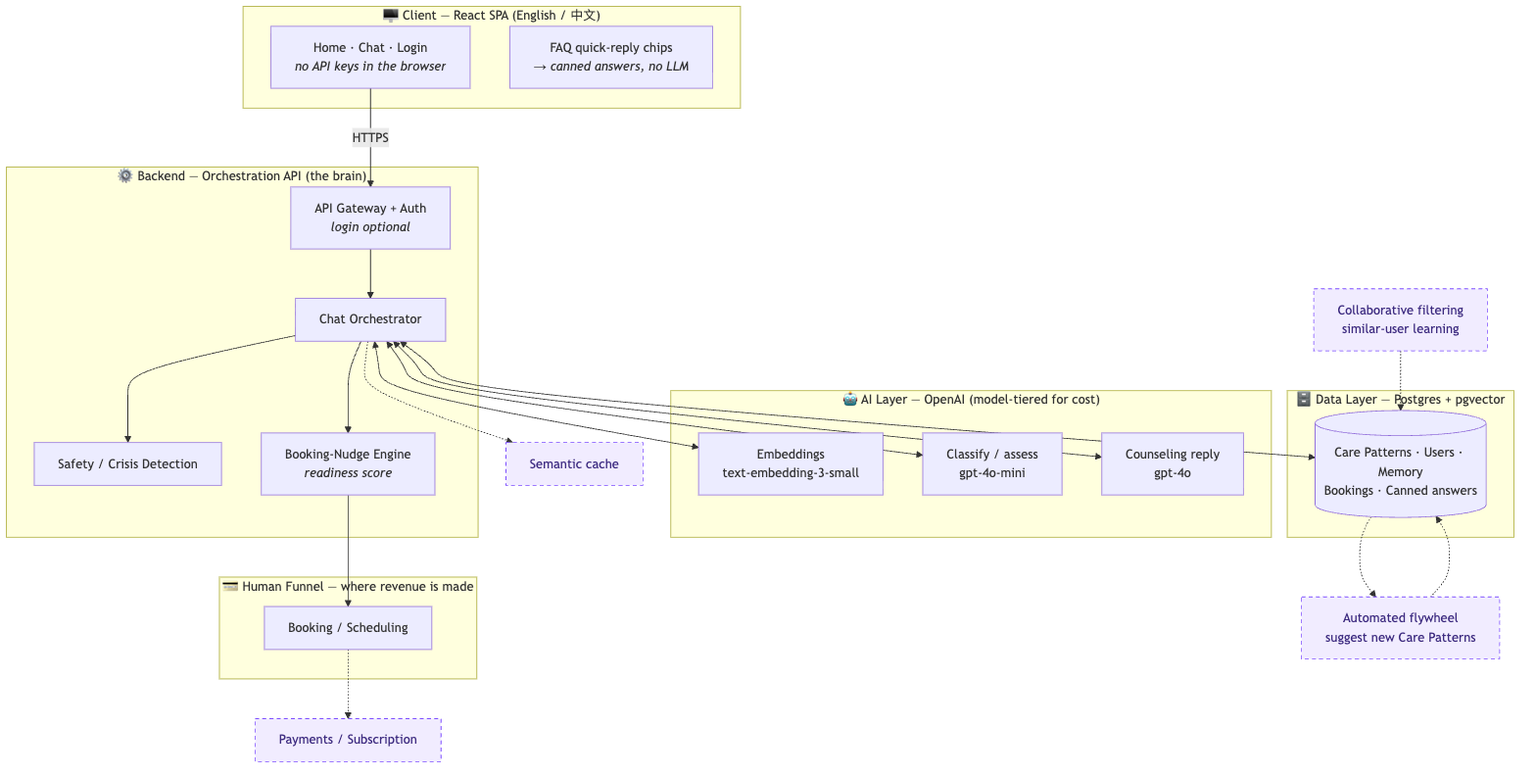
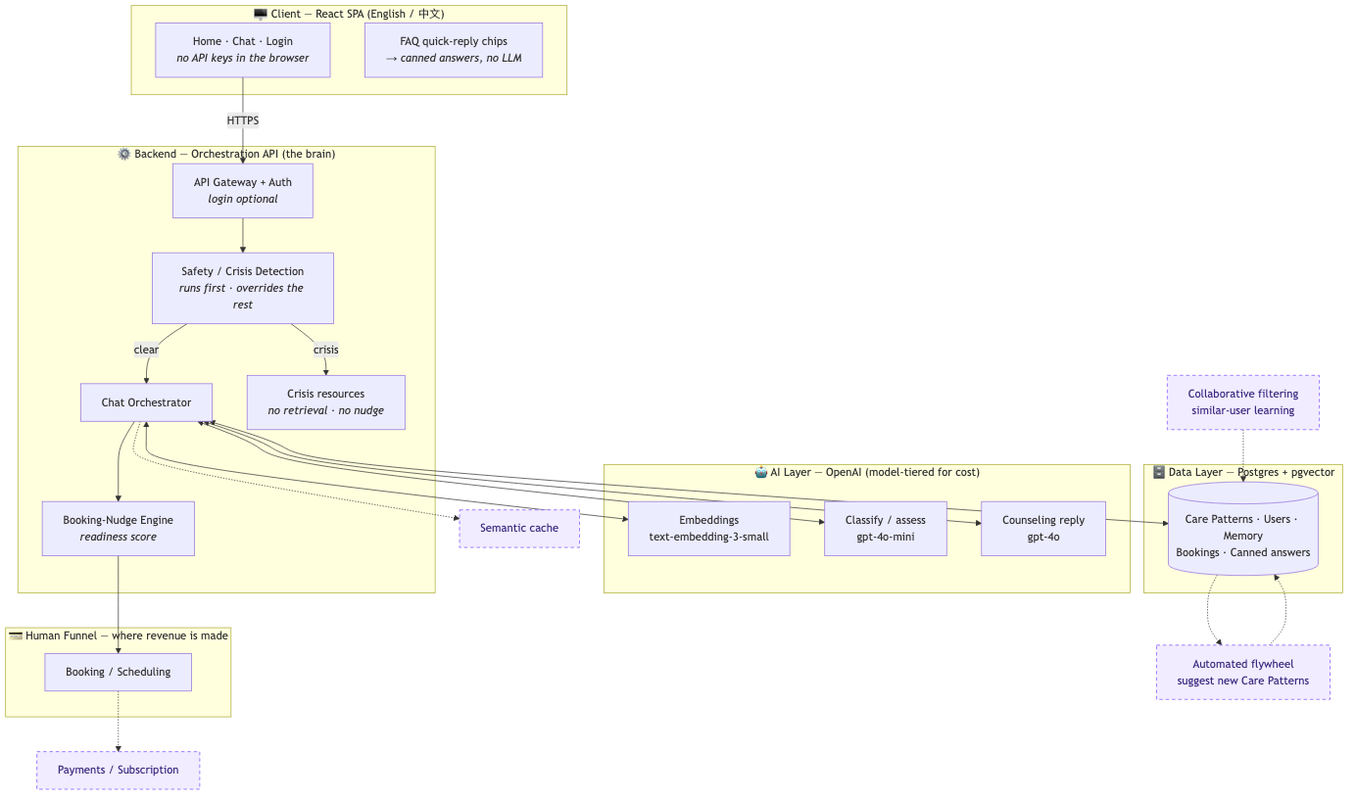
docs: add Feature 24 (private preview), move Feature 23, reshape Feature 21 (#21)
Take the student app online for the co-owner at the end of Phase 1 instead of
waiting for the last feature, and record the decisions that follow from it.

Feature 24 — private preview. An unadvertised, noindex URL the co-owner can use
unsupervised and screenshot for incubator applications. Six ACs: rate-limit
POST /chat, serve the web app same-origin as /admin already is, turn chat back
on, noindex, keep the inspector working, and smoke-test the deployed instance.
Cosmetic defects ship with it deliberately — the Login modal, the placeholder
team page, the dead privacy and terms links — because the reviewer knows the
state of the product and fixing them would delay three people working in
parallel. The crisis resource review and the Care Pattern recalibration are
recorded as scheduled follow-ups rather than blockers.

Feature 21 becomes the public launch rather than the deployment. AC 1, 2 and 5
are already delivered by Feature 24 and the Feature 17 hosting slice, so what is
left is opening the door to strangers: removing the noindex, the Login modal,
real privacy and terms pages, the consent notice, the crisis sign-off as a hard
blocker, and the rest of Feature 20's hardening.

Feature 23 moves to the head of Phase 2. Its release threshold and two-turn rule
need multi-turn labelled cases, which the 18 single-turn calibration cases
cannot supply and real preview conversations can — so waiting makes the feature
better rather than merely later.
[…]

diff --git a/docs/architecture.zh.html b/docs/architecture.zh.html
@@ -128,12 +128,14 @@ flowchart TD
     UI -->|HTTPS| API
     subgraph Backend["⚙ 后端 (Backend) — 编排 API (Orchestration API)"]
         API["API 网关 + 鉴权<br/><i>登录可选</i>"]
+        SAFE["安全 / 危机检测 (Crisis Detection)<br/><i>最先运行 · 覆盖其余流程</i>"]
         ORCH["对话编排器 (Orchestrator)"]
-        SAFE["安全 / 危机检测 (Crisis Detection)"]
         NUDGE["预约引导引擎<br/><i>意愿评分 (readiness score)</i>"]
+        CRISISOUT["危机求助资源<br/><i>不检索 · 不引导预约</i>"]
     end
-    API --> ORCH
-    ORCH --> SAFE
+    API --> SAFE
+    SAFE -->|"危机"| CRISISOUT
+    SAFE -->|"正常"| ORCH
     ORCH --> NUDGE
     subgraph AI["🤖 AI 层 — OpenAI (按模型分级控本)"]
         EMB["向量嵌入 (embeddings)<br/>text-embedding-3-small"]
@@ -477,7 +479,7 @@ flowchart LR
       <tr><td>3</td><td><b>相关性下限标定</b></td><td>用标注数据选出余弦阈值</td><td>少量</td><td>分析</td><td><span class="pill v1">v1</span></td></tr>
       <tr><td>4</td><td><b>产品与漏斗分析</b></td><td>访问量、语言、议题类型、转化</td><td>极少</td><td>分析 / BI</td><td><span class="pill v1">v1</span></td></tr>
       <tr><td>5</td><td><b>关怀模式缺口分析</b></td><td>找出没有合适模式的情境</td><td>少量</td><td>分析</td><td><span class="pill v1">v1</span></td></tr>
-      <tr><td>6</td><td><b>危机检测评估</b></td><td>衡量安全层的召回率</td><td>少量</td><td>分析</td><td><span class="pill v1">v1</span></td></tr>
+      <tr><td>6</td><td><b>危机检测评估</b></td><td>衡量安全层的召回率。已起步：<code>npm run safety:check</code> 用 25 个标注样例跑真实的筛查模块，<code>safety_events</code> 去标识化地记录每一次触发</td><td>少量</td><td>分析</td><td><span class="pill v1">v1</span></td></tr>
       <tr><td>7</td><td><b>重排序器 / 交叉编码器 (re-ranker)</b></td><td>在检索之上训练模型，胜过纯余弦</td><td>中–大</td><td>训练模型</td><td><span class="pill future">未来</span></td></tr>
       <tr><td>8</td><td><b>微调领域嵌入</b></td><td>更好的中英临床相似度</td><td>大</td><td>训练模型</td><td><span class="pill future">未来</span></td></tr>
       <tr><td>9</td><td><b>危机/风险分类器（训练）</b></td><td>专门构建的安全模型</td><td>中</td><td>训练模型</td><td><span class="pill future">未来</span></td></tr>
@@ -516,7 +518,15 @@ flowchart LR
     <li><b>隐私与同意。</b>敏感的心理健康数据，且很多来自中国公民。匿名日志需要清晰的告知；用对话来撰写模式需要单独、明确的同意
       + 在任何人工查看前完成去标识化。中国的 <b>PIPL</b>（尤其跨境传输）、<b>GDPR</b> 及特殊类别数据规则都适用——
       <b>在数据飞轮或协同过滤运行前，必须获得法务放行。</b>从第一天起就设计好同意与日志。</li>
-    <li><b>安全。</b>带真实升级路径与资源的危机/自伤检测不是可选项。</li>
+    <li><b>安全。</b>带真实升级路径与资源的危机/自伤检测不是可选项。<b>已建成</b>——见 PLAN.md 的 Feature 9：
+      每一条消息在生成回复之前都会被筛查，一旦命中，检索到的关怀模式指导会被丢弃、预约引导被抑制；而热线号码是
+      应用层的数据，绝不经过语言模型——让模型「给个热线」得到的往往是一个看起来很像、其实是错的号码。</li>
+    <li><b>关于「同意」这条约束被明知地推后（2026-08-29 决定）。</b>对话（含危机倾诉）已经存进 Postgres，
+      而目前<b>还没有任何同意提示</b>——也就是说「从第一天就设计好同意与日志」这一条现在并不成立。这是一个决定，
+      而非疏漏：PLAN.md 的 <b>Feature 24</b> 只是把应用放在一个不对外公布、带 <code>noindex</code> 的地址上，
+      供<b>一位知情的联合创始人</b>试用，这并不是上面那条约束所针对的情形。一旦陌生人能访问该站点，这条约束立刻生效，
+      并由 <b>Feature 21 的 AC 8</b> 把关——危机求助资源清单的研究员签核同理，它出于同样狭窄的理由未经审核就先上线。
+      两者都不得带着未解决的状态进入公开发布。</li>
     <li><b>不是医疗器械。</b>AI 提供支持与应对策略，绝不做诊断——超出其能力范围就转给真人。</li>
   </ul>
 

diff --git a/docs/architecture.html b/docs/architecture.html
@@ -130,12 +130,14 @@ flowchart TD
     UI -->|HTTPS| API
     subgraph Backend["⚙ Backend — Orchestration API (the brain)"]
         API["API Gateway + Auth<br/><i>login optional</i>"]
+        SAFE["Safety / Crisis Detection<br/><i>runs first · overrides the rest</i>"]
         ORCH["Chat Orchestrator"]
-        SAFE["Safety / Crisis Detection"]
         NUDGE["Booking-Nudge Engine<br/><i>readiness score</i>"]
+        CRISISOUT["Crisis resources<br/><i>no retrieval · no nudge</i>"]
     end
-    API --> ORCH
-    ORCH --> SAFE
+    API --> SAFE
+    SAFE -->|"crisis"| CRISISOUT
+    SAFE -->|"clear"| ORCH
     ORCH --> NUDGE
     subgraph AI["🤖 AI Layer — OpenAI (model-tiered for cost)"]
         EMB["Embeddings<br/>text-embedding-3-small"]
@@ -529,7 +531,7 @@ flowchart LR
       <tr><td>3</td><td><b>Relevance-floor calibration</b></td><td>Picks the cosine threshold from labeled data</td><td>small</td><td>analysis</td><td><span class="pill v1">v1</span></td></tr>
       <tr><td>4</td><td><b>Product &amp; funnel analytics</b></td><td>Volume, languages, issue types, conversion</td><td>minimal</td><td>analysis</td><td><span class="pill v1">v1</span></td></tr>
       <tr><td>5</td><td><b>Care-Pattern gap analysis</b></td><td>Finds situations with no good pattern</td><td>small</td><td>analysis</td><td><span class="pill v1">v1</span></td></tr>
-      <tr><td>6</td><td><b>Crisis-detection evaluation</b></td><td>Measures recall of the safety layer</td><td>small</td><td>analysis</td><td><span class="pill v1">v1</span></td></tr>
+      <tr><td>6</td><td><b>Crisis-detection evaluation</b></td><td>Measures recall of the safety layer. Started: <code>npm run safety:check</code> scores 25 labelled cases through the real screener, and <code>safety_events</code> records every trigger de-identified</td><td>small</td><td>analysis</td><td><span class="pill v1">v1</span></td></tr>
       <tr><td>7</td><td><b>Re-ranker / cross-encoder</b></td><td>Trained model on top of retrieval to beat raw cosine</td><td>med–large</td><td>trained</td><td><span class="pill future">Future</span></td></tr>
       <tr><td>8</td><td><b>Fine-tuned domain embeddings</b></td><td>Better EN↔中文 clinical similarity</td><td>large</td><td>trained</td><td><span class="pill future">Future</span></td></tr>
       <tr><td>9</td><td><b>Crisis/risk classifier (trained)</b></td><td>Purpose-built safety model</td><td>medium</td><td>trained</td><td><span class="pill future">Future</span></td></tr>
@@ -573,7 +575,18 @@ flowchart LR
       a clear notice; authoring patterns from conversations needs separate, explicit consent + de-identification before any
       human review. China's <b>PIPL</b> (cross-border transfer), <b>GDPR</b>, and special-category rules apply — <b>legal
       sign-off required before the flywheel or collaborative filtering runs.</b> Design consent + logging from day one.</li>
-    <li><b>Safety.</b> Crisis/self-harm detection with real escalation and resources is not optional.</li>
+    <li><b>Safety.</b> Crisis/self-harm detection with real escalation and resources is not optional.
+      <b>Built</b> in PLAN.md Feature 9: every message is screened before the reply is written, a positive signal
+      drops the retrieved guidance and suppresses the booking nudge, and the hotline numbers are application data
+      that never pass through a language model — a model asked for a hotline produces a plausible wrong one.</li>
+    <li><b>Where the consent constraint is knowingly deferred (decided 2026-08-29).</b> Conversations are already
+      stored in Postgres, crisis disclosures included, and there is <b>no consent notice yet</b> — so "design consent
+      + logging from day one" is not currently satisfied. This is a decision, not an oversight: PLAN.md
+      <b>Feature 24</b> puts the app on an unadvertised, <code>noindex</code> URL for a <b>single known reviewer who
+      is a co-owner</b>, which is not the situation the constraint above is written about. It becomes binding the
+      moment strangers can reach the site, and <b>Feature 21 AC 8 holds it</b> — along with the researcher sign-off
+      on the crisis resource list, which ships unreviewed for the same narrow reason. Neither may cross into the
+      public launch unresolved.</li>
     <li><b>Not a medical device.</b> The AI offers support and coping strategies, never diagnosis — and routes to humans beyond its scope.</li>
   </ul>
 

diff --git a/docs/PLAN.md b/docs/PLAN.md
@@ -6,18 +6,31 @@
 
 ## How to use this plan
 - Work one feature at a time. A feature is **done** only when all its AC pass.
-- **Everything runs on `localhost`,** with one deliberate exception (below). Full deployment is the **last** feature.
+- **Everything runs on `localhost`** until Feature 24, with one earlier exception (below). *(Amended 2026-08-29: this plan originally deferred all deployment to Feature 21, the last feature. It no longer does — see Feature 24.)*
 - The current prototype stays on GitHub Pages untouched until then.
 - ✅ = done and verified · 🟡 = in progress · 🟢 = in V1 scope, not started. Anything marked *Future* in the architecture is intentionally out of scope here.
-- **Features are not strictly in build order.** Feature 17 was pulled forward from Phase 3, Feature 22 was added and built straight after Feature 7, and Feature 23 was added mid-Phase-1 and sits between Features 9 and 10 where it will be built; the reason is recorded in each one's own section. Check each feature's status marker rather than assuming the numbering is the sequence.
+- **Features are not strictly in build order.** Feature 17 was pulled forward from Phase 3, Feature 22 was added and built straight after Feature 7, Feature 23 was added mid-Phase-1 and has since moved to the head of Phase 2, and Feature 24 was added at the end of Phase 1 to put the site on a private URL early. The reason is recorded in each one's own section. Check each feature's status marker rather than assuming the numbering is the sequence.
 
-### The one exception to localhost-only (2026-08-15)
+### Going live in two steps, not one
+**Feature 24 (added 2026-08-29)** puts the student app on a real URL at the end of Phase 1, once
+Features 9 and 11 have landed. It is a **private preview**, not a launch: unadvertised and
+`noindex`, for the co-owner to test and screenshot for incubator applications. Cosmetic defects
+ship with it deliberately. The point is to stop three people working in series — the co-owner
+reviews, the researchers calibrate the Care Pattern library against real conversations, and building
+continues, all at once.
+
+**Feature 21 is then the public launch**, and is about opening the door to *strangers* rather than
+about deploying: removing the `noindex`, the privacy and consent obligations, the Login modal, and
+the rest of Feature 20's hardening.
+
+### The earlier exception to localhost-only (2026-08-15)
 A researcher joined to author the Care Pattern knowledge base, so **Feature 17's admin tool
 plus the database it writes to are hosted early** — see Feature 17 for the full reasoning.
 Scoped as narrowly as possible: the hosted service serves the admin UI and its API and
 nothing else. `POST /chat` is switched off there (`ENABLE_CHAT_ROUTES=false`), the student
 chat app stays on localhost, and the GitHub Pages prototype is untouched. Everything else
-in this plan is still built and verified locally, and Feature 21 still owns real deployment.
+in this plan is still built and verified locally until Feature 24 turns that endpoint back on
+behind a rate limit.
 
 ## Stack decisions (locked for V1)
 - **Frontend:** the existing React SPA (`inner-sun`), cleaned up and wired to our own backend.
@@ -273,6 +286,13 @@ The pattern's strategies are *"the calls are a lifeline, not a bad habit"*, *"a 
 
 This leaks nothing: someone guessing tokens can already see that no panel appeared, so the message tells them only what the screen told them. The verdict is judged against the token as it stood when the turn was *sent* (held in a ref), because unlocking mid-flight would otherwise report a rejection that never happened, and entering a new token clears the old verdict. The general point is worth keeping: **an observability surface that fails silently is worse than no observability surface**, because it converts "this is off" into "this found nothing", and those two readings lead somewhere very different.
 
+**It stays switched on in production** (decided 2026-08-29). It is not development scaffolding to
+be stripped at deployment: a live chat *hides* the thing that makes this product different, because
+a reply grounded in researcher-authored guidance looks like any other chatbot's, and the compare
+toggle is what shows the difference. Feature 24 AC 6 carries what that costs — a real
+`INSPECTOR_TOKEN` on the hosted API, a rate limit that does not throttle a demo, and a token treated
+as rotatable, since it grants read access to the Care Pattern library's titles, scores and guidance.
+
 **The inspector is meant to keep growing.** Every feature that adds a *decision* to a turn should surface that decision here, because the argument for showing why a reply was Care-Pattern-grounded applies equally to everything else the server decides on a student's behalf. Concretely: ✅ Feature 8's prompt assembly and token budget (delivered — the panel now shows how many messages went in full versus were replaced by the summary, the summary text itself, every upstream call with its model and tokens, and what the turn and the conversation have cost), ✅ Feature 9's crisis detection (delivered — the panel now shows which detector fired, the category, the classifier's label, the rule ids, and an explicit line when a Care-Pattern match was overridden), and **Feature 11's booking nudge — why it fired on this turn**. Each is additive and cheap: extend `ChatDebug` in `packages/shared`, the response schema in `services/api/src/routes/chat.ts`, and the panel in `apps/web/src/components/Chat/Inspector.js`. The gate itself never changes, and when Feature 12 brings real accounts the token gives way to a role check with the payload untouched.
 
 **Not done here, on purpose:** the rows those later features will add, since the decisions they show do not exist yet.
@@ -413,9 +433,99 @@ the population being served.
   the inspector's call table, so Feature 8's model tiering stays legible rather than being quietly eroded
   by a new call.
 
+## Feature 10: Pre-defined answers (FAQ) + quick-reply chips 🟢
+Answer common questions with zero LLM cost.
+**Depends on:** Feature 5.
+**AC:**
+1. A set of canned bilingual answers exists (e.g. "Is this confidential?", "How do I book a real counselor?", "Are you a real person?").
+2. These live in the `canned_responses` table — **not** cached, not LLM-generated. *(The "DB table optional" wording here is now settled: Feature 17 ships the editor for this table, so the content must be in the database rather than a config file.)*
+3. The chat UI shows **clickable quick-reply chips** that return the canned answer deterministically with no API call.
+4. Adding/editing a canned answer requires no model call and no matching logic.
+
+**Note:** the *authoring* half of this feature is delivered early by Feature 17, whose admin tool has a tab for `canned_responses`. What remains here is the student-facing half — surfacing the chips in the chat UI and returning the answer without an API call. Do not build a second editor.
+
+## Feature 11: Booking nudge + "talk to a human" path 🟢
+The whole point of the funnel: convert trust into a booking.
+**Depends on:** Features 5, 9.
+**AC:**
+1. A **rule-based readiness check** decides when to nudge (e.g. enough substantive turns, or the user explicitly asks for a human, or a pattern's `escalation` flag) — and it nudges **at most once** per conversation (no nagging).
+2. When triggered, the AI gently suggests booking a real counselor.
+3. A working **booking entry point** exists (v1 can be a simple request form or scheduling link — full payments are Future).
+4. The nudge never fires during an active crisis flow (that path takes over).
+5. The **Feature 22 inspector shows why a nudge fired** on the turn it fired — which part of the readiness check was satisfied (turn count, an explicit request, or a matched pattern's `escalation`), and why it stayed silent on the turns it did not. A rule-based decision that can only be inferred from the reply's wording cannot be tuned.
+
+---
+
+## Feature 24: Private preview — take the site online for the co-owner 🟢
+Put the student-facing app on a real URL that the co-owner can use on her own time, unsupervised,
+and screenshot for incubator applications. **Not public** — just not advertised. **Depends on:**
+Features 9, 11.
+
+**A deliberate slice of Features 20 and 21**, the same arrangement the Feature 17 hosting work used.
+It takes only what is needed to hand one person a working link, and leaves everything that exists
+for *strangers* in Feature 21: privacy and terms pages, the consent notice, the custom domain, and
+the fake Login modal.
+
+**Cosmetic defects are explicitly in scope to ship with** (decided 2026-08-29). The Login modal
+still collects a password and discards it, the team page is placeholder profiles, and `/privacy`
+and `/terms` are dead links. The reviewer knows the state of the product, so none of that blocks
+her, and fixing it would delay the thing that actually unblocks three people working in parallel.
+
+**Why now.** It unblocks work that is currently serial: the co-owner reviews and screenshots, the
+researchers calibrate the Care Pattern library against real conversations, and building continues —
+all at the same time, on the same deployed instance.
+
+**AC:**
+1. **`POST /chat` is rate limited** (a slice of Feature 20 AC 1). The one hard blocker: the endpoint
+   is unauthenticated and spends real OpenAI money, and being unadvertised is not a cost control.
+   Must leave headroom for a demo — see AC 5.
+2. **The student app is served from the same origin as the API**, exactly as the admin UI already is
+   at `/admin`. One URL, and CORS stops being a consideration. Note the CRA `homepage` field is set
+   to the GitHub Pages path and will need changing.
+3. **`ENABLE_CHAT_ROUTES=true`** on the Render instance, behind AC 1.
+4. **`noindex`** so the preview does not turn up in search results. This is what "private" means
+   here — there is no login, and there does not need to be one.
+5. **The retrieval inspector still works** (decided 2026-08-29 — see Feature 22). `INSPECTOR_TOKEN`
+   set as a real secret, AC 1's limiter not throttling a demo, and the comparison reply still
+   allowed. It is the thing that makes the differentiator visible in a screenshot: a live chat hides
+   the fact that a reply is grounded in researcher-authored guidance. Treat the token as rotatable —
+   it grants read access to the Care Pattern library's titles, scores and guidance text.
+6. **A smoke test passes against the deployed instance**, not localhost: chat → Care-Pattern match →
+   crisis path → booking entry point → both languages.
+
+**Scheduled immediately after this feature goes up — reminders, not blockers:**
+- **The crisis resource list gets a researcher's review** (the outstanding item from Feature 9,
+  `services/api/src/crisis-resources.ts`). It ships unreviewed because the reviewer is a co-owner
+  who knows it, but it must not still be unreviewed when strangers arrive in Feature 21.
+- **The Care Pattern library gets recalibrated** against the conversations the preview produces.
+  `npm run retrieval:calibrate` currently runs 18 cases written by hand against the starter set;
+  real traffic is better material, and it is also what Feature 23 needs for its multi-turn cases.
+
+**Do not re-provision what already exists.** Supabase and Render are up, migrations run against
+them, and [`DEPLOYMENT.md`](DEPLOYMENT.md) documents redeploy and rollback. Read `render.yaml`
+first. The free Render instance sleeps when idle, so the first load after a quiet period takes
+roughly 50 seconds — worth warning the reviewer about rather than having her read it as a bug.
+
+**Budget.** A conversation was measured at **$0.034–0.042** end to end, so this costs a few dollars.
+The exposure without AC 1 is unbounded, which is the whole argument for it being the gate.
+
+---
+
+# Phase 2 — Users, memory & languages
+
 ## Feature 23: A working formulation that survives a turn 🟢
 Stop the match flapping at the relevance floor, and give every student a head start.
-**Depends on:** Feature 7. **Build after Feature 9** — crisis detection is non-negotiable and should not wait behind a matching refinement — and **before Feature 13**, which inherits the seeding design.
+**Depends on:** Feature 7. **Build first in Phase 2, and before Feature 13**, which inherits the seeding design.
+
+**Why it waits for the public beta rather than preceding it (decided 2026-08-29).** This feature is
+gated on two thresholds that the plan insists must be *measured*, and the release threshold and the
+two-turn rule need **multi-turn** labelled cases — which `npm run retrieval:calibrate`'s 18
+single-turn cases cannot supply. Real tester conversations are exactly that material. Deferring this
+past Feature 24 therefore makes the feature better rather than merely later: the alternative is
+inventing multi-turn cases and calibrating against our own guesses, which is the failure this
+project has already been bitten by once (ARCHITECTURE.md's unmeasured "start around 0.7–0.8" floor
+would have rejected every correct match, silently). Nothing in the beta depends on it — a pattern
+flapping at the boundary produces a slightly less consistent reply, not a broken one.
 
 Today every turn is matched from scratch and the applied patterns are discarded the moment the next message arrives. Measured consequence, from a real conversation: a student asked a follow-up *about* their homesickness and the pattern scored **0.5154** against a 0.54 floor. The guidance was dropped over **0.025**, on a turn where the subject had not changed at all. A fixed threshold flaps at its boundary, and a student does not experience their situation as ending because one sentence scored lower.
 
@@ -446,31 +556,6 @@ Today every turn is matched from scratch and the applied patterns are discarded 
 **An open question worth measuring here, not guessing.** `CARE_PATTERN_TOP_N` is 3, chosen in Feature 7 without measuring *reply* quality against it — the calibration measured matching, not blending. Three simultaneous patterns may already be too many for one warm reply, and 2 may be the practical maximum. This feature has the multi-turn harness to find out.
 
 **Not done here, on purpose:** the questionnaire itself (Feature 13), the chips the anonymous seed is taken from (Feature 10), and re-ranking the vector top-N with an LLM, which remains the *Future* hybrid design.
-
-## Feature 10: Pre-defined answers (FAQ) + quick-reply chips 🟢
-Answer common questions with zero LLM cost.
-**Depends on:** Feature 5.
-**AC:**
-1. A set of canned bilingual answers exists (e.g. "Is this confidential?", "How do I book a real counselor?", "Are you a real person?").
-2. These live in the `canned_responses` table — **not** cached, not LLM-generated. *(The "DB table optional" wording here is now settled: Feature 17 ships the editor for this table, so the content must be in the database rather than a config file.)*
-3. The chat UI shows **clickable quick-reply chips** that return the canned answer deterministically with no API call.
-4. Adding/editing a canned answer requires no model call and no matching logic.
-
-**Note:** the *authoring* half of this feature is delivered early by Feature 17, whose admin tool has a tab for `canned_responses`. What remains here is the student-facing half — surfacing the chips in the chat UI and returning the answer without an API call. Do not build a second editor.
-
-## Feature 11: Booking nudge + "talk to a human" path 🟢
-The whole point of the funnel: convert trust into a booking.
-**Depends on:** Features 5, 9.
-**AC:**
-1. A **rule-based readiness check** decides when to nudge (e.g. enough substantive turns, or the user explicitly asks for a human, or a pattern's `escalation` flag) — and it nudges **at most once** per conversation (no nagging).
-2. When triggered, the AI gently suggests booking a real counselor.
-3. A working **booking entry point** exists (v1 can be a simple request form or scheduling link — full payments are Future).
-4. The nudge never fires during an active crisis flow (that path takes over).
-5. The **Feature 22 inspector shows why a nudge fired** on the turn it fired — which part of the readiness check was satisfied (turn count, an explicit request, or a matched pattern's `escalation`), and why it stayed silent on the turns it did not. A rule-based decision that can only be inferred from the reply's wording cannot be tuned.
-
----
-
-# Phase 2 — Users, memory & languages
 
 ## Feature 12: Authentication (anonymous vs registered) 🟢
 **Depends on:** Features 3, 4.
@@ -608,7 +693,7 @@ Make it credible for investors and users.
 ## Feature 20: Hardening 🟢
 **Depends on:** all core features.
 **AC:**
-1. Rate limiting + abuse protection on the chat/API (free anonymous usage can't be farmed). *(Partly in place already: `@fastify/rate-limit` is registered opt-in — global off — and applied to the credential-checking routes, the admin login and password change and the Feature 22 `GET /inspect` check, at 10 per 15 minutes. What remains is `POST /chat` itself, which is the expensive one and the reason `ENABLE_CHAT_ROUTES` is off on the hosted instance until this lands.)*
+1. Rate limiting + abuse protection on the chat/API (free anonymous usage can't be farmed). *(Partly in place already: `@fastify/rate-limit` is registered opt-in — global off — and applied to the credential-checking routes, the admin login and password change and the Feature 22 `GET /inspect` check, at 10 per 15 minutes. What remains is `POST /chat` itself, which is the expensive one and the reason `ENABLE_CHAT_ROUTES` is off on the hosted instance until this lands. **AC 1 is taken by Feature 24**, which cannot go live without it; the rest of this feature stays here.)*
 2. Input validation and safe error handling across the API.
 3. Secrets managed via env/secret store; no secrets in code or client.
 4. Automated tests for the critical paths (matching, safety screening, auth).
@@ -634,18 +719,51 @@ Not urgent while the contract is three fields, and riskier from Feature 13 (ques
 
 # Phase 4 — Ship (last step)
 
-## Feature 21: Deployment to production hosting 🟢 (do this last)
+## Feature 21: Public launch 🟢 (do this last)
 **Depends on:** everything above.
+
+**Most of the deployment itself is done before this feature is reached.** Feature 17's hosting slice
+provisioned Supabase, ran the migrations and documented rollback; **Feature 24 then deployed the
+student app same-origin and turned `POST /chat` back on behind a rate limit.** So AC 1, 2 and 5 are
+already met by the time this starts, and AC 4 has been rehearsed. What is genuinely left is the work
+of opening the door to **strangers** rather than to one known reviewer — which is a different job
+from deploying, and is why this feature still exists.
+
 **AC:**
-1. Frontend + backend deployed **on the same platform/domain** → same-origin API, simpler auth cookies.
-2. Managed Postgres (**Supabase**, provisioned early — see below) with migrations run and env/secrets configured.
-3. Custom domain + HTTPS (e.g. `app.innersun.com`); optional: keep GitHub Pages for a static marketing page.
-4. A smoke test passes in production: register → chat → match → safety → nudge → (bilingual) all work.
-5. Rollback/redeploy process documented.
+1. ✅ *(delivered by Feature 24)* Frontend + backend deployed **on the same platform/domain** →
+   same-origin API, simpler auth cookies.
+2. ✅ *(delivered by the Feature 17 hosting slice)* Managed Postgres (**Supabase**) with migrations
+   run and env/secrets configured.
+3. Custom domain + HTTPS (e.g. `app.innersun.com`); optional: keep GitHub Pages for a static
+   marketing page.
+4. A smoke test passes in production: register → chat → match → safety → nudge → (bilingual) all
+   work. *(Feature 24 covers all of this except `register`, which needs Feature 12.)*
+5. ✅ *(delivered by the Feature 17 hosting slice)* Rollback/redeploy process documented.
+6. **The `noindex` from Feature 24 AC 4 is removed** — this is the moment the site stops being
+   private, and it is one line that is very easy to leave in place by accident.
+7. **The defects Feature 24 deliberately shipped with are fixed**, because they were acceptable for
+   a co-owner and are not acceptable for a stranger:
+   - The **Login modal** collects an email and a password and discards them. Either wire it to
+     Feature 12 or remove the button. People reuse passwords; this one is not cosmetic.
+   - **`/privacy` and `/terms`** are dead `<a href>` links to routes that do not exist and do not
+     even resolve under `HashRouter`. Both need real pages.
+   - The **team page** is placeholder profiles, labelled as sample content.
+8. **A consent notice covering anonymous logging** is live (Feature 16 AC 1). Conversations, crisis
+   disclosures included, are stored in Postgres, and a stranger has to be told that before they type.
+9. **The crisis resource list has been signed off by a researcher** — flagged in Feature 9, scheduled
+   right after Feature 24, and a hard blocker here.
+10. **Feature 20's remaining hardening is in place** — automated tests on the critical paths, CI, and
+    abuse protection sized for public traffic rather than for one reviewer.
 
-**Substantially pre-built by the Feature 17 hosting slice.** That slice provisions Supabase, runs the migrations against it, stands the API up on Render, and documents redeploy and rollback in [`DEPLOYMENT.md`](DEPLOYMENT.md) — so **AC 2 and AC 5 arrive early**, and AC 1 gets a rehearsal, since the admin UI is already served by the API at the same origin. The platform-readiness work is done too: `PORT`/`0.0.0.0` binding, `trustProxy`, database TLS, and a session cookie whose `Secure` flag does not depend on `NODE_ENV`.
+**Do not re-provision what already exists** — check Supabase and Render first, and read
+`render.yaml` before writing new deployment config. The platform-readiness work is long done:
+`PORT`/`0.0.0.0` binding, `trustProxy`, database TLS, and a session cookie whose `Secure` flag does
+not depend on `NODE_ENV`.
 
-What genuinely remains: deploying the **student-facing app**, turning `POST /chat` back on (`ENABLE_CHAT_ROUTES=true`) behind the rate limiting and abuse protection Feature 20 adds, the custom domain, and the full smoke test. **Do not re-provision what already exists** — check Supabase and Render first, and read `render.yaml` before writing new deployment config.
+**Treat this as a checklist against what the private preview actually taught us**, not as a fresh
+deployment. By the time it is reached the app has been running publicly-reachable for weeks, and the
+interesting questions are the ones the preview raised — where the rate limit sat, what the Care
+Pattern calibration showed against real conversations, and whether the crisis path behaved.
 
 **One decision to revisit here:** the student app will need `WEB_ORIGIN` set for CORS, or — better, and what Feature 21 AC 1 actually asks for — it should be served from the same origin as the API, exactly as the admin UI already is, at which point CORS stops being a consideration at all.
 

diff --git a/docs/ARCHITECTURE.md b/docs/ARCHITECTURE.md
@@ -41,12 +41,14 @@ flowchart TD
     UI -->|HTTPS| API
     subgraph Backend["⚙ Backend — Orchestration API (the brain)"]
         API["API Gateway + Auth<br/><i>login optional</i>"]
+        SAFE["Safety / Crisis Detection<br/><i>runs first · overrides the rest</i>"]
         ORCH["Chat Orchestrator"]
-        SAFE["Safety / Crisis Detection"]
         NUDGE["Booking-Nudge Engine<br/><i>readiness score</i>"]
+        CRISISOUT["Crisis resources<br/><i>no retrieval · no nudge</i>"]
     end
-    API --> ORCH
-    ORCH --> SAFE
+    API --> SAFE
+    SAFE -->|"crisis"| CRISISOUT
+    SAFE -->|"clear"| ORCH
     ORCH --> NUDGE
     subgraph AI["🤖 AI Layer — OpenAI (model-tiered for cost)"]
         EMB["Embeddings<br/>text-embedding-3-small"]
@@ -217,7 +219,7 @@ at our scale; pgvector handles tens of thousands of patterns comfortably, and we
 > the `pgvector/pgvector:pg16` image, and the migrations are plain SQL that port between them
 > unchanged. Supabase was already the assumed direction — the schema anticipates reconciling `users`
 > with its `auth.users` — so adopting it when the researcher admin tool needed hosting means the
-> final deployment inherits the work rather than repeating it. See PLAN.md Features 17 and 21.
+> final deployment inherits the work rather than repeating it. See PLAN.md Features 17, 24 and 21.
 
 **Care Pattern schema (v1):** `id/title` · `situation` (embedded → matching) · `signals` ·
 `strategies` (→ prompt) · `avoid` · `escalation` · `source_refs` (research-paper citations) ·
@@ -483,7 +485,7 @@ what *unlocks* the **Future = trained models (need accumulated data)**.
 | 3 | **Relevance-floor calibration** | Picks the cosine threshold from labeled data | small | analysis | 🟢 v1 |
 | 4 | **Product & funnel analytics** | Volume, languages, issue types, drop-off, AI→booking conversion | minimal | analysis / BI | 🟢 v1 |
 | 5 | **Care-Pattern gap analysis** | Finds situations with no good pattern to guide authoring | small | analysis | 🟢 v1 |
-| 6 | **Crisis-detection *evaluation*** | Measures recall of the (v1 LLM/rule-based) safety layer | small | analysis | 🟢 v1 |
+| 6 | **Crisis-detection *evaluation*** | Measures recall of the (v1 LLM/rule-based) safety layer. Started: `npm run safety:check` scores 25 labelled cases through the real screener, and `safety_events` records every trigger de-identified | small | analysis | 🟡 v1 |
 | 7 | **Re-ranker / cross-encoder** | Trained model on top of retrieval to beat raw cosine | med–large | **trained model** | 🔵 Future |
 | 8 | **Fine-tuned domain embeddings** | Better EN↔中文 clinical similarity | large | **trained model** | 🔵 Future |
 | 9 | **Crisis/risk classifier (trained)** | Purpose-built safety model, more reliable than LLM-only | medium | **trained model** | 🔵 Future |
@@ -538,6 +540,19 @@ Deferred until we have users, data, revenue, and governance in place.
   transfer), **GDPR** for EU students, and special-category-data rules all apply — **legal sign-off is
   required before the flywheel (or collaborative filtering) runs.** Design consent + logging from day one.
 - **Safety.** Crisis/self-harm detection with real escalation paths and crisis resources is not optional.
+  ✅ Built in PLAN.md Feature 9: every message is screened before the reply is written, a positive
+  signal drops the retrieved guidance and suppresses the booking nudge, and the hotline numbers are
+  application data that never pass through a language model — a model asked for a hotline produces a
+  plausible wrong one.
+
+> **Where the consent constraint is knowingly deferred (decided 2026-08-29).** Conversations are
+> already stored in Postgres, crisis disclosures included, and there is **no consent notice yet** —
+> so "design consent + logging from day one" is not currently satisfied. This is a decision, not an
+> oversight: PLAN.md **Feature 24** puts the app on an unadvertised, `noindex` URL for a **single
+> known reviewer who is a co-owner**, which is not the situation the constraint above is written
+> about. It becomes binding the moment strangers can reach the site, and **Feature 21 AC 8 holds
+> it** — along with the researcher sign-off on the crisis resource list, which ships unreviewed for
+> the same narrow reason. Neither may cross into the public launch unresolved.
 - **Not a medical device.** The AI offers support and coping strategies, never diagnosis — and routes to
   humans for anything beyond its scope.
 
